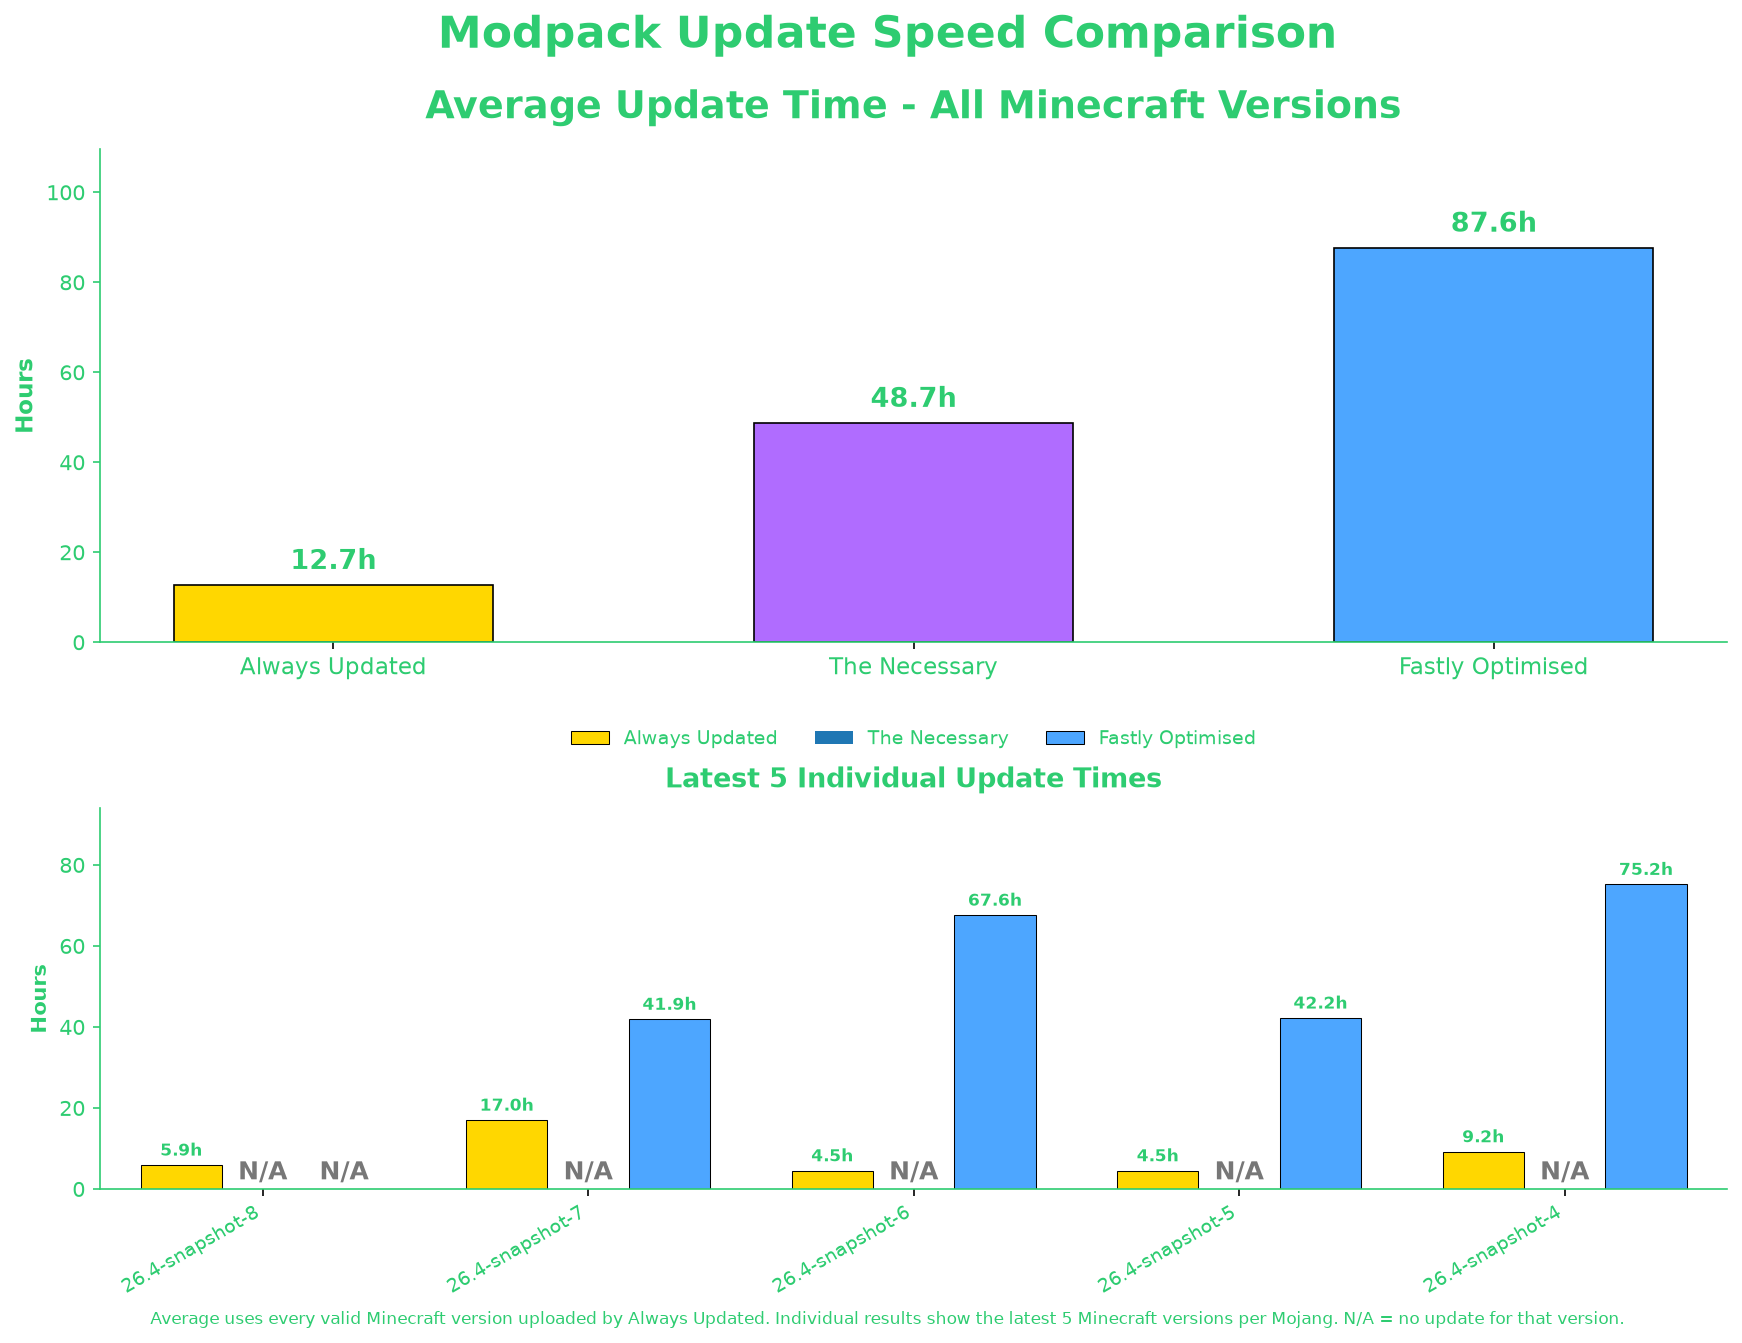
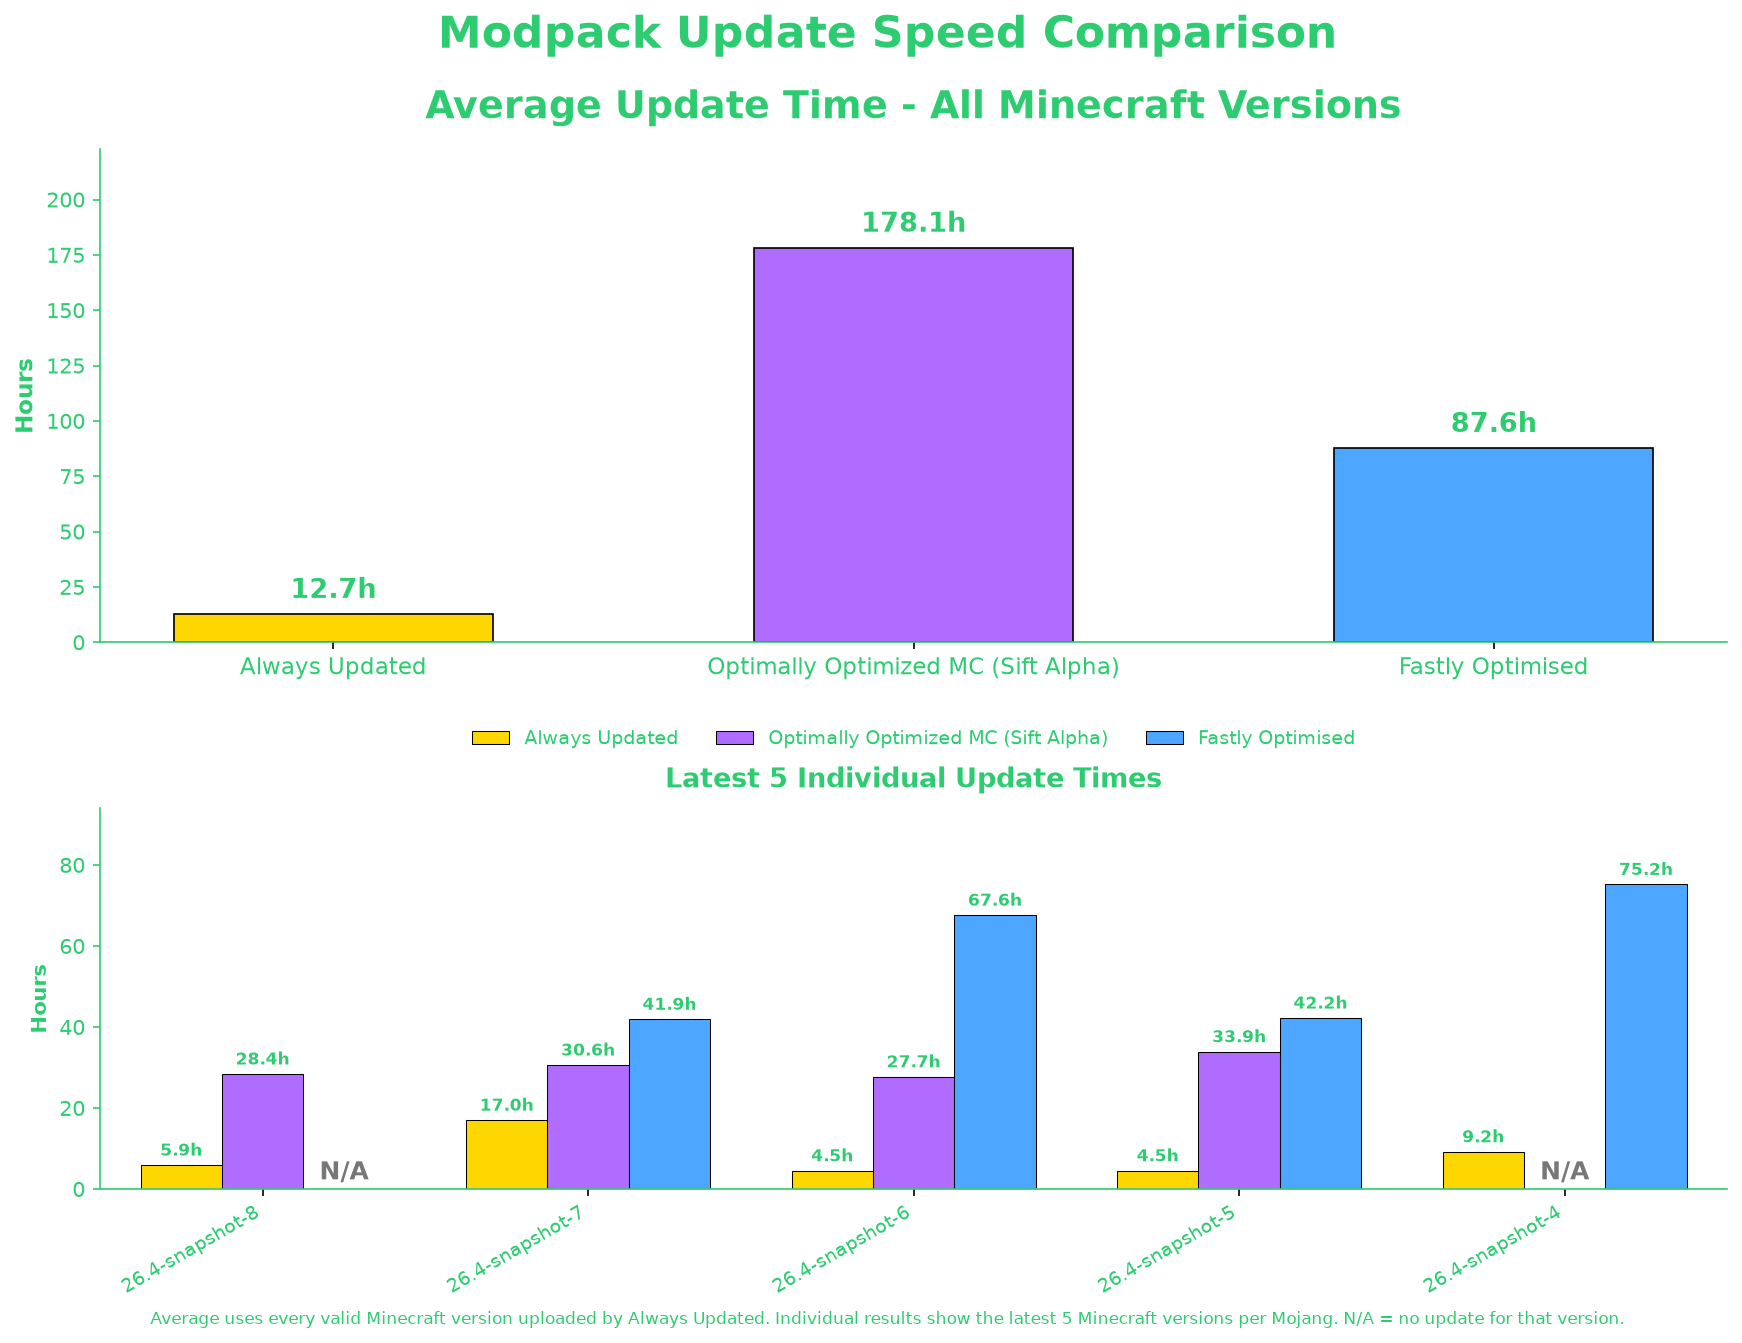
dsa

diff --git a/generate_graph.py b/generate_graph.py
@@ -15,7 +15,7 @@ load_dotenv()
 
 PROJECTS = {
     "Always Updated": "rj6ioflZ",
-    "The Necessary": "Gvp9bbxY",
+    "Optimally Optimized MC": "Kj6RMu7q",
     "Fastly Optimised": "uBPAMdwq",
 }
 
@@ -584,7 +584,7 @@ def main():
 
     COLORS = {
         "Always Updated": "#FFD700",
-        "The Necessary": "#B06CFF",
+        "Optimally Optimized MC": "#B06CFF",
         "Fastly Optimised": "#4DA6FF",
     }
 
